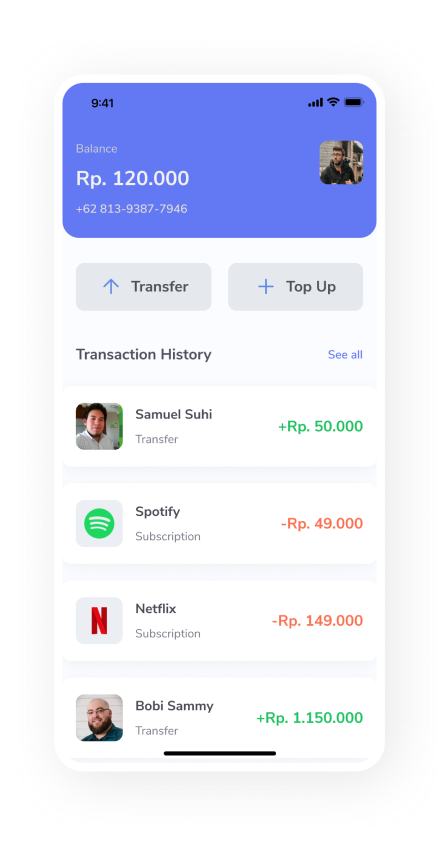
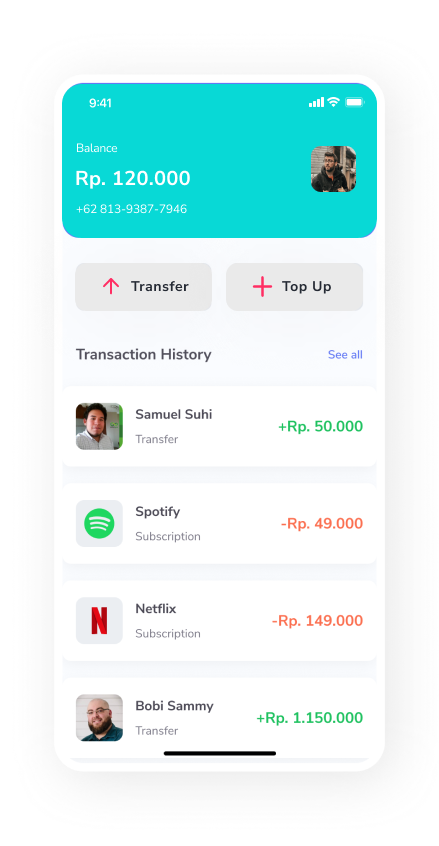
fix: update colors design

Changed region(s): [[0.1185, 0.0922, 0.8588, 0.3688], [0.385, 0.3381, 0.4146, 0.3688], [0.3257, 0.3381, 0.3554, 0.3688]]

diff --git a/src/pages/LandingPage.js b/src/pages/LandingPage.js
@@ -15,6 +15,7 @@ import Logo3 from '../assets/images/icons/company_logo3.svg'
 import Logo4 from '../assets/images/icons/company_logo4.svg'
 import Logo5 from '../assets/images/icons/company_logo5.svg'
 import Logo6 from '../assets/images/icons/company_logo6.svg'
+import { FiDownload, FiLock, FiPhone } from 'react-icons/fi'
 
 function LandingPage() {
     const [isShowMenu, setShowMenu] = React.useState(false)
@@ -81,21 +82,30 @@ function LandingPage() {
                     <div className="about-section-v1">
                         <div className="card-1">
                             <div className="flx-row mar-x-auto wd-100 jstfy-center">
-                                <img src={Icon1} alt="iconPhone.svg" className="" width="35%" height="100%"/>
+                                {/* <img src={} alt="iconPhone.svg" className="" width="35%" height="100%"/> */}
+                                <span className="bg-rounded-icon pad-25 rad-100 mar-b-20">
+                                    <FiPhone size={30}/>
+                                </span>
                             </div>
                             <p className="txt-ctr fnt-paragraph">24/7 Support</p>
                             <p className="txt-ctr fnt-desc">We have 24/7 contact support so you can contact us whenever you want and we will respond it.</p>
                         </div>
                         <div className="card-1">
                             <div className="flx-row mar-x-auto wd-100 jstfy-center">
-                                <img src={Icon2} alt="iconPhone.svg" className="" width="35%" height="100%"/>
+                                <span className="bg-rounded-icon pad-25 rad-100 mar-b-20">
+                                    <FiLock size={30}/>
+                                </span>
+                                {/* <img src={Icon2} alt="iconPhone.svg" className="" width="35%" height="100%"/> */}
                             </div>
                             <p className="txt-ctr fnt-paragraph">Data Privacy</p>
                             <p className="txt-ctr fnt-desc">We make sure your data is safe in our database and we will encrypt any data you submitted to us.</p>
                         </div>
                         <div className="card-1">
                             <div className="flx-row mar-x-auto wd-100 jstfy-center">
-                                <img src={Icon3} alt="iconPhone.svg" className="" width="35%" height="100%"/>
+                                <span className="bg-rounded-icon pad-25 rad-100 mar-b-20">
+                                    <FiDownload size={30}/>
+                                </span>
+                                {/* <img src={Icon3} alt="iconPhone.svg" className="" width="35%" height="100%"/> */}
                             </div>
                             <p className="txt-ctr fnt-paragraph">Easy Download</p>
                             <p className="txt-ctr fnt-desc">Zwallet is 100% totally free to use it’s now available on Google Play Store and App Store.</p>
@@ -190,18 +200,18 @@ function LandingPage() {
         <footer className="bg-blue">
             <div className="container-box">
                 <div className="pad-y-80">
-                    <span className="logo-txt-white mar-b-30">Zwallet</span>
+                    <span className="logo-txt-white mar-b-30">OurPocket</span>
                     <div className="width-25">
                         <div className="wd-100">
                             <p className="fnt-footer">Simplify financial needs and saving much time in banking needs with one single app.</p>
                         </div>
                     </div>
-                    <hr className="mar-t-50 mar-b-30"/>
+                    <hr className="mar-t-50 mar-b-30 border-new-color"/>
                     <div className="footer-copyright copyrigth-text">
-                        <span>2020 Zwallet. All right reserved.</span>
+                        <span>2020 OurPocket. All right reserved.</span>
                         <div className="footer-copyright gap-20">
                             <span>+62 5637 8882 9901</span>
-                            <span className="mar-r-40">contact@zwallet.com</span>
+                            <span className="mar-r-40">contact@OurPocket.com</span>
                         </div>
                     </div>
                 </div>

diff --git a/src/assets/css/style.css b/src/assets/css/style.css
@@ -5,7 +5,7 @@ body{
     margin: 0;
     font-family: 'Nunito Sans' !important;
     font-style: normal !important;
-    background: #473AD10F;
+    background: #c6ffff7e;
 }
 .bell-notification .menu-navbar-collapse .nav-link.active{
     color: #6379F4 !important;
@@ -81,7 +81,7 @@ li.link-wrapper > a.active {
     font-weight: 700;
     font-size: 29px;
     line-height: 40px;
-    color: #6379F4;
+    color: #009fbb;
 }
 .logo-txt-white{
     font-family: 'Nunito Sans';
@@ -89,7 +89,7 @@ li.link-wrapper > a.active {
     font-weight: 700;
     font-size: 36px;
     line-height: 49px;
-    color: #FFFFFF;
+    color: #a0eefc;
 }
 .btn-txt-white{
     font-family: 'Nunito Sans';
@@ -115,7 +115,7 @@ li.link-wrapper > a.active {
     font-weight: 800;
     font-size: 50px;
     line-height: 93px;
-    color: #3A3D42;
+    color: #0095af !important;
 }
 .fnt-header2{
     font-family: 'Nunito Sans';
@@ -130,7 +130,7 @@ li.link-wrapper > a.active {
     font-weight: 400;
     font-size: 18px;
     line-height: 31px;
-    color: #3A3D42;
+    color: #513252 !important;
 }
 .fnt-desc{
     font-family: 'Nunito Sans';
@@ -139,7 +139,7 @@ li.link-wrapper > a.active {
     font-size: 16px;
     line-height: 31px;
     text-align: center;
-    color: rgba(58, 61, 66, 0.9);
+    color: #00505e;
 }
 .fnt-desc2{
     font-family: 'Nunito Sans';
@@ -157,7 +157,7 @@ li.link-wrapper > a.active {
     font-weight: 400;
     font-size: 18px;
     line-height: 28px;
-    color: rgba(239, 239, 239, 0.9);
+    color: #bcf5ff;
 }
 .copyrigth-text{
     font-family: 'Nunito Sans';
@@ -165,7 +165,7 @@ li.link-wrapper > a.active {
     font-weight: 400;
     font-size: 16px;
     line-height: 28px;
-    color: rgba(239, 239, 239, 0.9);
+    color: #c2ffff;
 }
 .txt-ctr{
     text-align: center;
@@ -180,42 +180,43 @@ li.link-wrapper > a.active {
     padding: 5px 20px;
     border: 2px solid #6379F4;
     border-radius: 12px;
-    background-color: #FFFFFF;
+    background-color: #F1F1F1;
     border: 2px solid #FFFFFF;
-    color: #6379F4;
+    color: #7A4069;
     font-weight: 400;
 }
 .btn-custom-white:hover{
-    background-color: #d8d8d8ec;
-    border: 2px solid #c4c4c4ec;
-    color: #3d58f3;
+    background-color: #ffffff;
+    border: 2px solid #4e284373;
+    color: #4e2843;
 }
 .btn-custom-blue{
     max-width: 150px;
     padding: 5px 20px;
     border-radius: 12px;
-    background-color: #6379F4;
+    background-color: #009fbb;
     border: 2px solid #FFFFFF;
     color: #FFFFFF;
     font-weight: 400;
 }
 .btn-custom-blue:hover{
-    background-color: #4762fa;
+    background-color: #00d3f8;
     border: 2px solid #ffffffa8;
-    color: #e9e9e9;
+    color: #4e4e4e;
 }
 .btn-try-blue{
     max-width: 150px;
     text-align: center;
     padding: 15px 15px;
     border-radius: 12px;
-    background-color: #4661fa;
+    background-color: #009fbb;
     border: 2px solid #FFFFFF;
     color: #FFFFFF;
     font-weight: bold;
 }
 .btn-try-blue:hover{
-    background-color: #6379f4ce;
+    background-color: #04d9ff;
+    color: #7A4069;
 }
 .btn-try-blue.bg-white{
     background-color: #ffffffe1;
@@ -253,24 +254,24 @@ li.link-wrapper > a.active {
     box-shadow: none !important;
 }
 .txt-color-blue{
-    color: #6379F4 !important;
+    color: #7A4069 !important;
 }
 .txt-color-white{
     color: #FFFFFF;
 }
 .bg-blue{
-    background: #6379F4;
+    background: #0192ac;
     width: 100%;
 }
 .bg-white{
     background-color: #FFFFFF;
 }
 .bg-prmry{
-    background: #FAFCFF;
+    background: #e2ffff73;
     width: 100%;
 }
 .bg-scnd{
-    background: #473AD10F;
+    background: #5cffff6e;
     width: 100%;
 }
 .bg-color-tranasparent{
@@ -313,14 +314,21 @@ li.link-wrapper > a.active {
 .bg-box-count{
     background-color: #473AD10F;
 }
+.bg-rounded-icon {
+    background-color: #8cffffc4;
+    color: #05adadfa;
+}
 /* border */
 .border-blue{
     border: 2px solid #6379F4;
 }
+.border-new-color{
+    border: 2px solid #84ffff;
+}
 /* card */
 .card-1{
     /* width: 360px; */
-    background: #fff;
+    background: #efffffc4;
     border-radius: 25px;
     padding: 40px 20px;
 }
@@ -422,7 +430,9 @@ li.link-wrapper > a.active {
 .rads-85{
     border-radius: 85px;
 }
-
+.rad-100{
+    border-radius: 100%;
+}
 
 /* custom */
 .link-rm-line{

diff --git a/src/components/NavbarDashboard.jsx b/src/components/NavbarDashboard.jsx
@@ -4,13 +4,14 @@ import Nav from "react-bootstrap/Nav";
 import Navbar from "react-bootstrap/Navbar";
 import UserPhoto from "../assets/images/img/img3.png";
 import { FiBell, FiArrowDown, FiArrowUp } from "react-icons/fi";
-import { DropdownButton, Image, Row } from "react-bootstrap";
+import { DropdownButton, Image } from "react-bootstrap";
 import {
   NotificationCardHeader,
   NotificationCardItem,
 } from "./NotificationCard";
 import { Helmet, HelmetProvider } from 'react-helmet-async';
 import { MenuNavbar } from './SideBarMenu';
+import { Link } from 'react-router-dom';
 
 
 function NavbarDashboard({titlePage}) {
@@ -29,8 +30,8 @@ function NavbarDashboard({titlePage}) {
             <Navbar.Toggle aria-controls="basic-navbar-nav" />
             <Navbar.Collapse id="basic-navbar-nav" className="">
               <Nav className="ms-auto d-flex flex-column flex-sm-row gap-3 align-items-center bell-notification py-4">
-                <Nav.Link
-                  href="/home/profile"
+                <Link
+                  to="/home/profile"
                   className="d-flex d-sm-flex flex-column flex-sm-row gap-3 align-items-center"
                 >
                   <Image src={UserPhoto} />
@@ -38,7 +39,7 @@ function NavbarDashboard({titlePage}) {
                     <span className="fw-bold">Robert Chandler</span>
                     <span className="fw-light">+62 8139 3877 7946</span>
                   </div>
-                </Nav.Link>
+                </Link>
                 
                 <DropdownButton
                   align="end"

diff --git a/src/pages/auth/Register.js b/src/pages/auth/Register.js
@@ -108,7 +108,7 @@ function Register() {
           <div className="text-center">
             <span>
               Already have an account? Let's{" "}
-              <Link to="/login" className="link-rm-line fw-bold">
+              <Link to="/auth/login" className="link-rm-line fw-bold">
                 Login
               </Link>
             </span>
